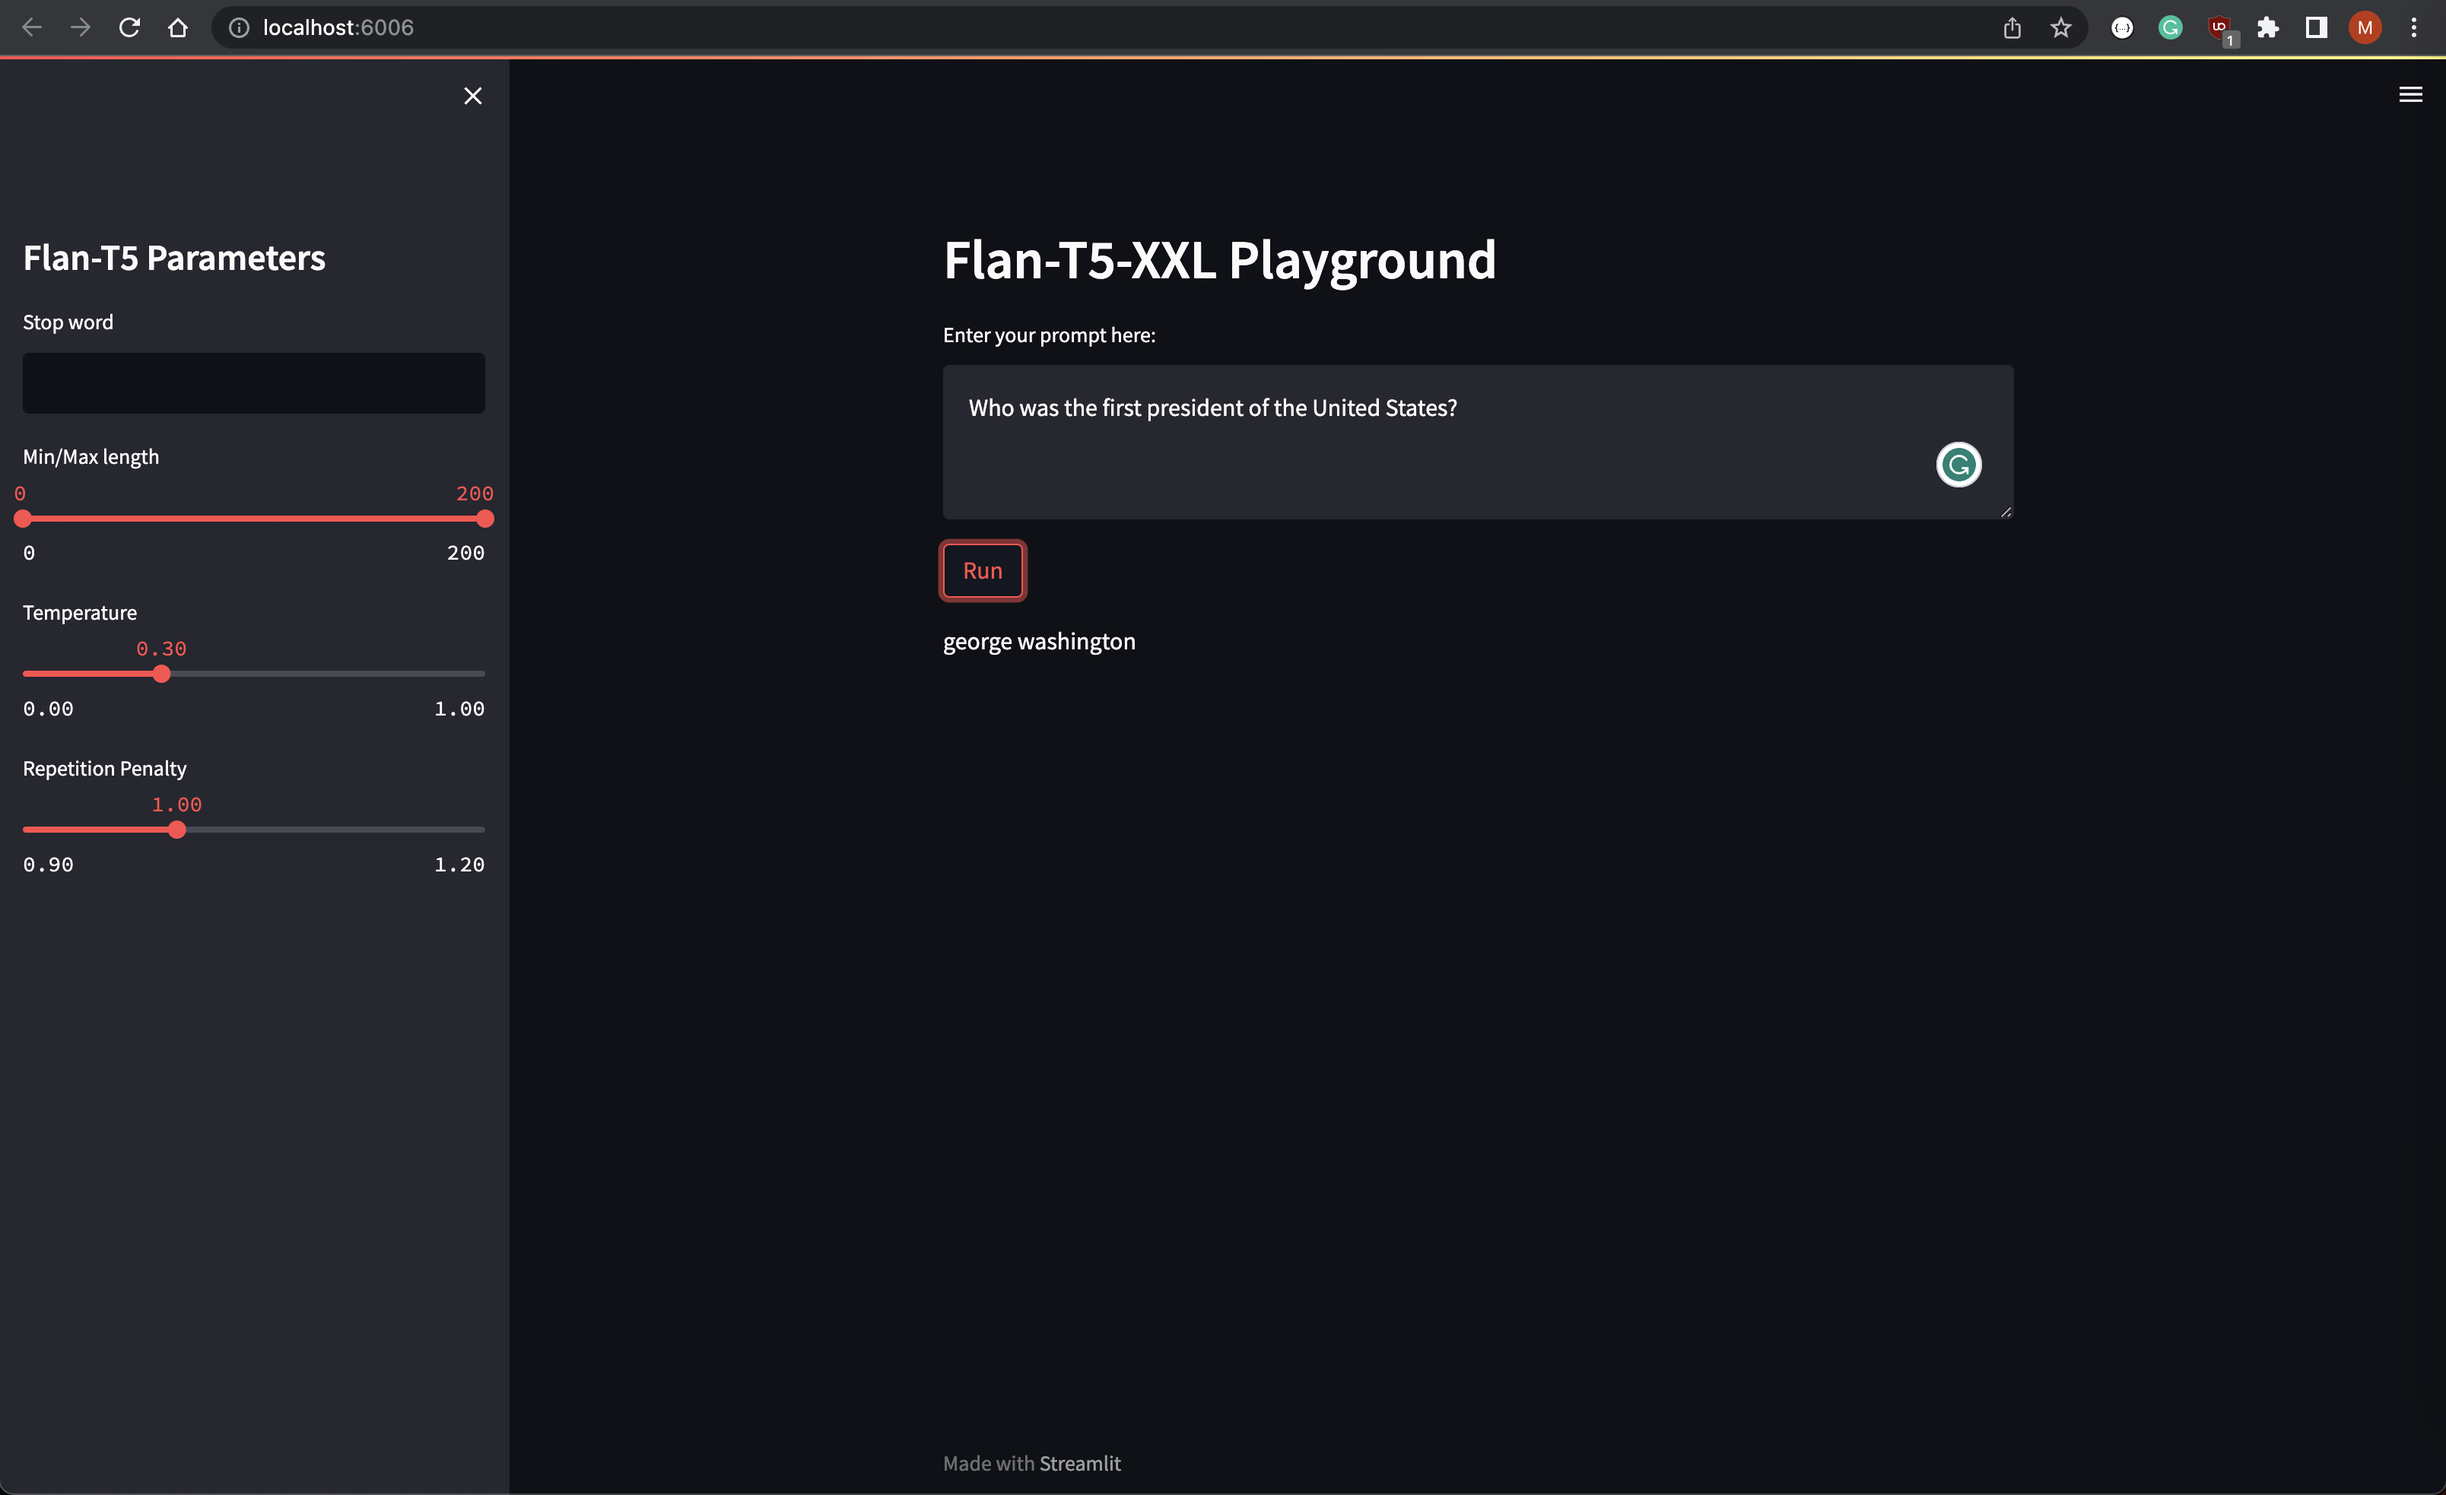
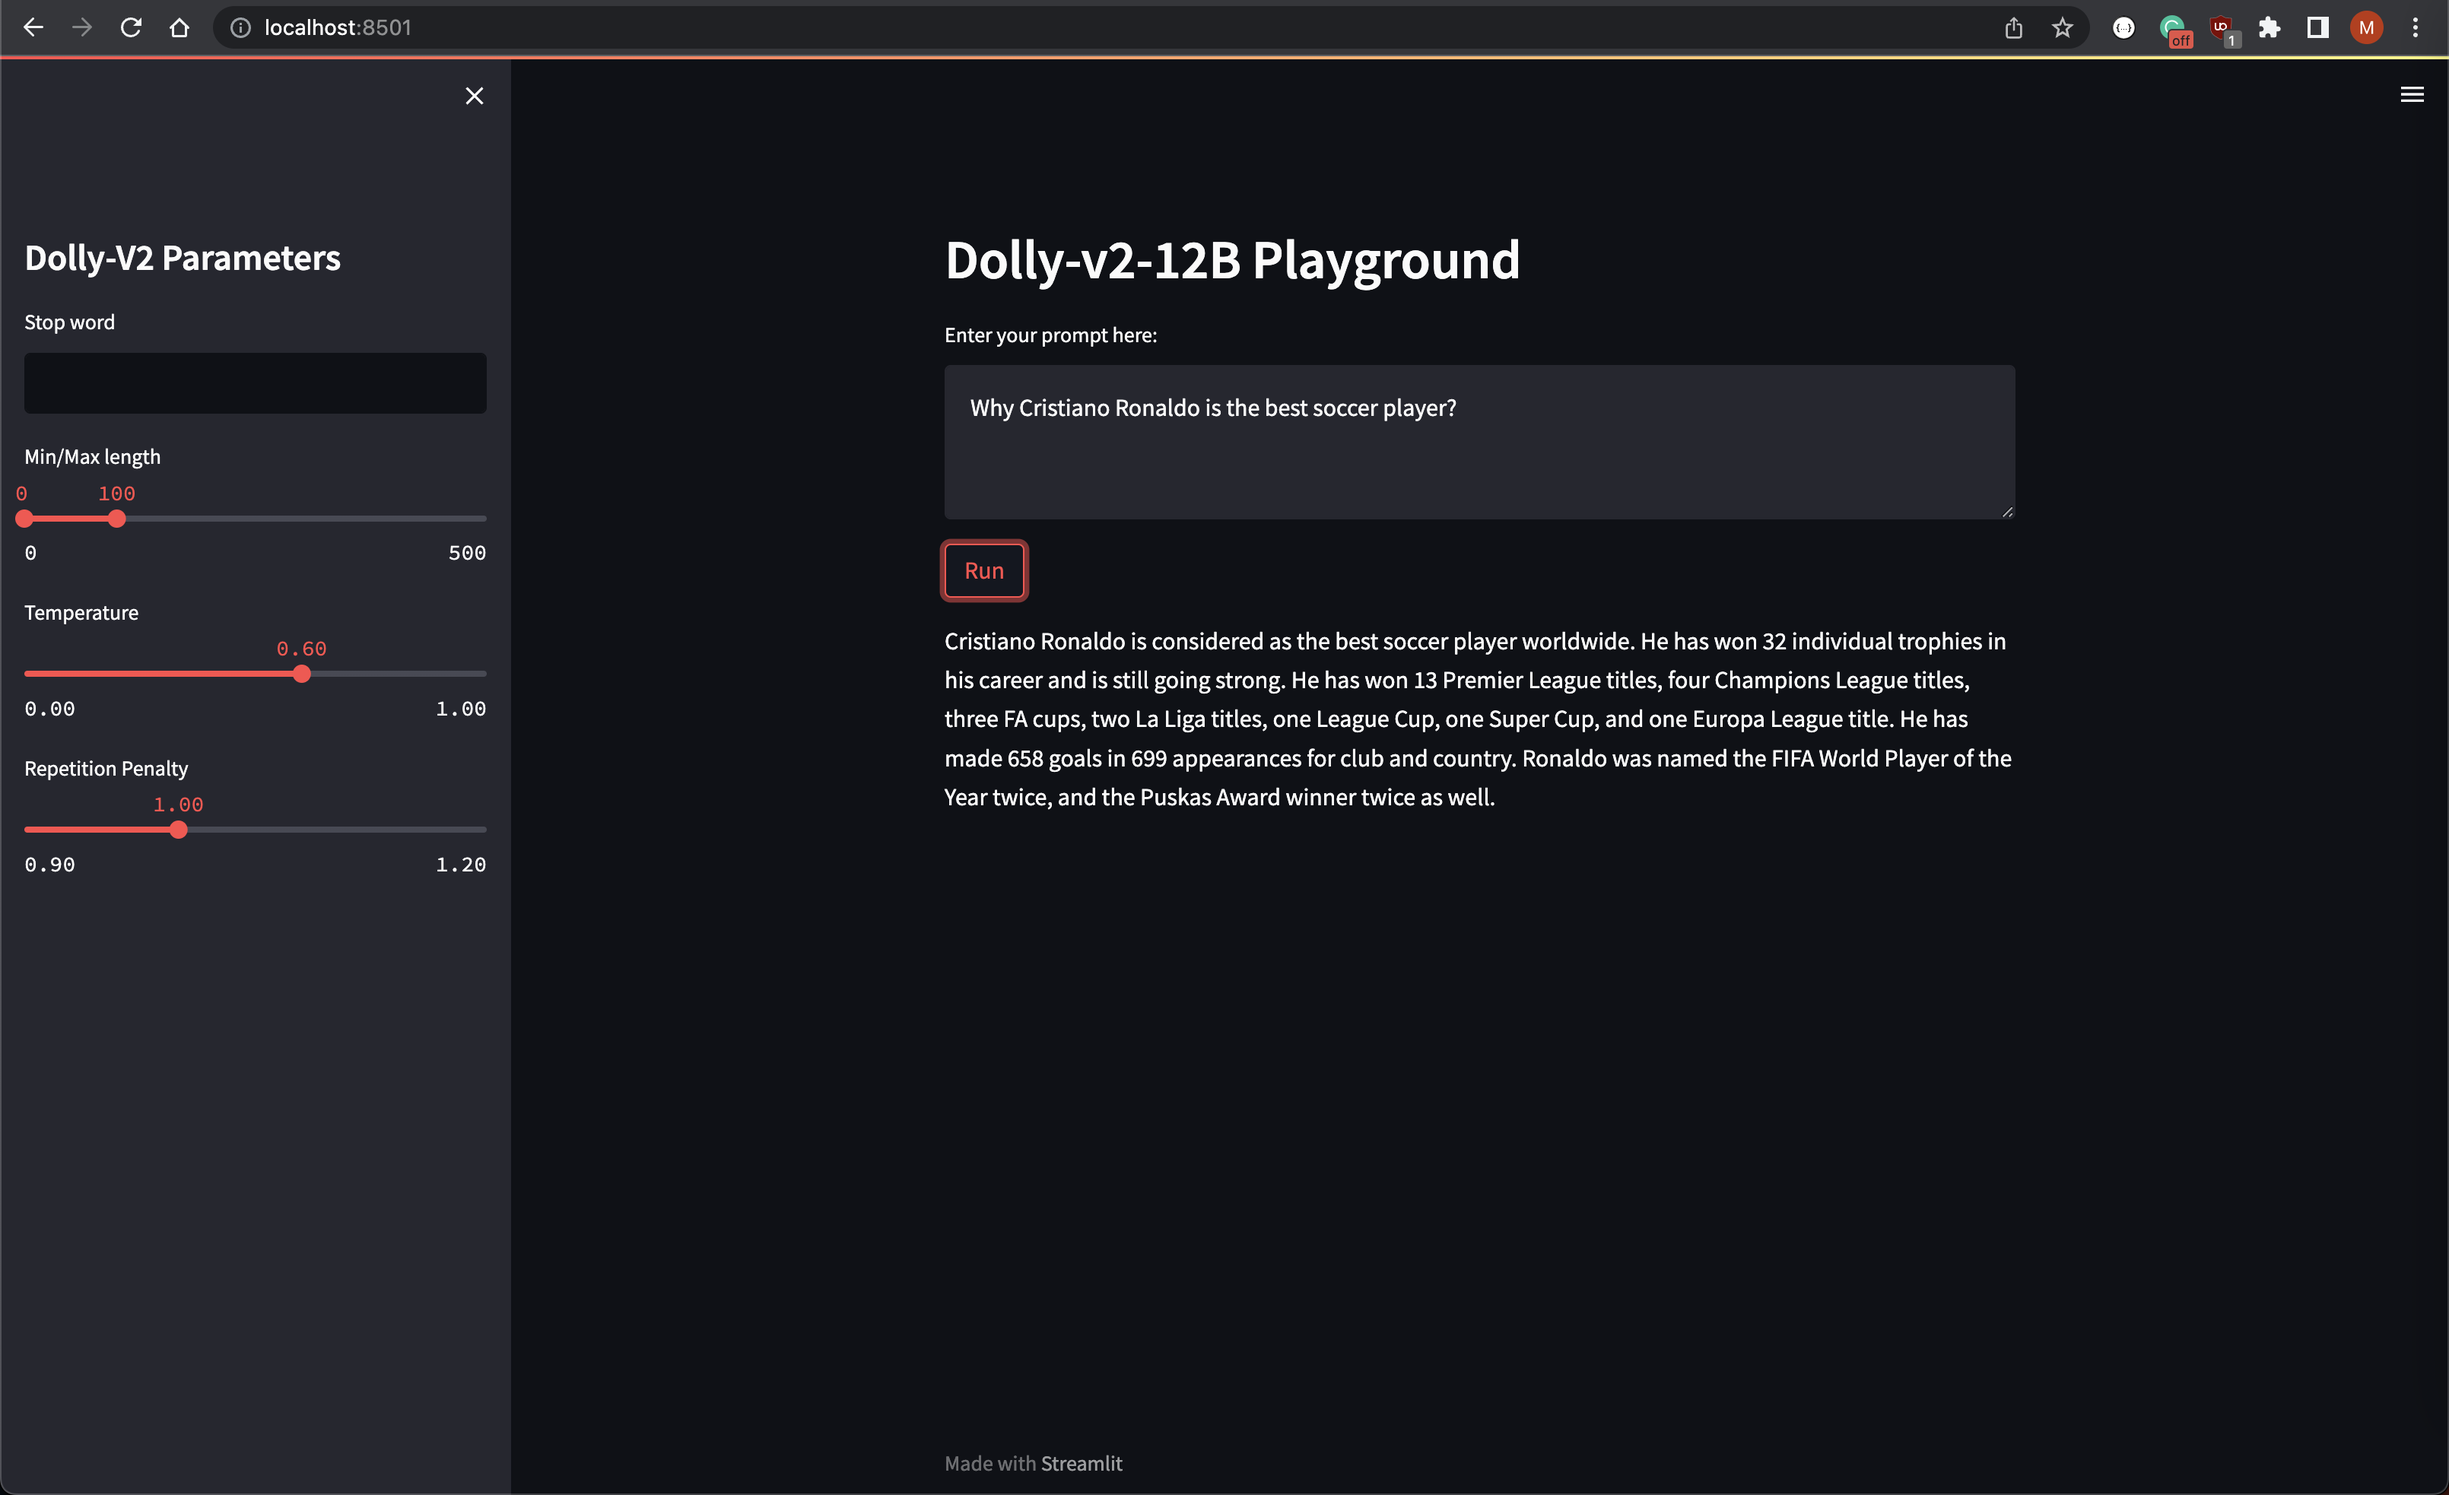
Dockerize playground

diff --git a/playground.py b/playground.py
@@ -1,29 +1,17 @@
-import streamlit as st
-import boto3
 import json
 
-session = boto3.Session()
-sagemaker_runtime = session.client("sagemaker-runtime", region_name=session.region_name)
-
-endpoint_name = "flan-t5-xxl-2023-04-20-17-38-19-314"
-
-st.sidebar.title("Flan-T5 Parameters")
-
-stop_word = st.sidebar.text_input("Stop word")
-min_length, max_length = st.sidebar.slider("Min/Max length", 0, 200, (0, 100))
-temperature = st.sidebar.slider("Temperature", min_value=0.0, max_value=1.0, value=0.6)
-rep_penalty = st.sidebar.slider("Repetition Penalty", min_value=0.9, max_value=1.2, value=1.0)
+import boto3
+import streamlit as st
 
 
 def generate_text(input_prompt: str) -> str:
-    do_sample = temperature > 0
     payload = {
         "inputs": input_prompt,
         "min_length": min_length,
         "max_length": max_length,
         "temperature": temperature,
         "repetition_penalty": rep_penalty,
-        "do_sample": do_sample,
+        "do_sample": temperature > 0,
     }
 
     response = sagemaker_runtime.invoke_endpoint(
@@ -33,10 +21,20 @@ def generate_text(input_prompt: str) -> str:
     )
 
     result = json.loads(response["Body"].read().decode())
-    return result
+    return result[0]["generated_text"]
 
 
-st.header("Flan-T5-XXL Playground")
+session = boto3.Session()
+sagemaker_runtime = session.client("sagemaker-runtime", region_name=session.region_name)
+endpoint_name = "dolly-v2-12b"
+
+st.sidebar.title("Dolly-V2 Parameters")
+stop_word = st.sidebar.text_input("Stop word")
+min_length, max_length = st.sidebar.slider("Min/Max length", 0, 500, (0, 100))
+temperature = st.sidebar.slider("Temperature", min_value=0.0, max_value=1.0, value=0.6)
+rep_penalty = st.sidebar.slider("Repetition Penalty", min_value=0.9, max_value=1.2, value=1.0)
+
+st.header("Dolly-v2-12B Playground")
 prompt = st.text_area("Enter your prompt here:")
 
 if st.button("Run"):

diff --git a/model/code/inference.py b/model/code/inference.py
@@ -1,20 +1,14 @@
-from transformers import T5ForConditionalGeneration, AutoTokenizer
+import torch
+from transformers import pipeline
 
 
 def model_fn(model_dir):
-    model = T5ForConditionalGeneration.from_pretrained("google/flan-t5-xxl",
-                                                       load_in_8bit=True, device_map="auto",
-                                                       cache_dir="/tmp/model_cache/")
-    tokenizer = AutoTokenizer.from_pretrained("google/flan-t5-xxl")
+    instruct_pipeline = pipeline(
+        model="databricks/dolly-v2-12b",
+        torch_dtype=torch.bfloat16,
+        trust_remote_code=True,
+        device_map="auto",
+        model_kwargs={"load_in_8bit": True},
+    )
 
-    return model, tokenizer
-
-
-def predict_fn(data, model_and_tokenizer):
-    model, tokenizer = model_and_tokenizer
-    text = data.pop("inputs", data)
-
-    inputs = tokenizer(text, return_tensors="pt").input_ids.to("cuda")
-    outputs = model.generate(inputs, **data)
-
-    return tokenizer.decode(outputs[0], skip_special_tokens=True)
+    return instruct_pipeline

diff --git a/README.md b/README.md
@@ -58,7 +58,12 @@ From the JupyterServer, you can import this git repo and reference the notebook 
 
 After importing the notebook into the JupyterServer, you can proceed to deeploy the model like the image below shows:
 
-**It's important to mention that this step might take a couple of minutes to complete.**
+--- 
+**NOTE**
+
+It's important to mention that this step might take a couple of minutes to complete.
+
+---
 
 ![](images/jupyterserver-endpoint-1.png)
 
@@ -80,6 +85,4 @@ task run_playground
 
 ![](images/playground-ui.png)
 
-You will be able to access the playground on:
-
-`https://<YOUR_STUDIO_ID>.studio.<YOUR_REGION>.sagemaker.aws/jupyter/default/proxy/6006/`
+You will be able to access the playground on: `https://localhost/8501/`
